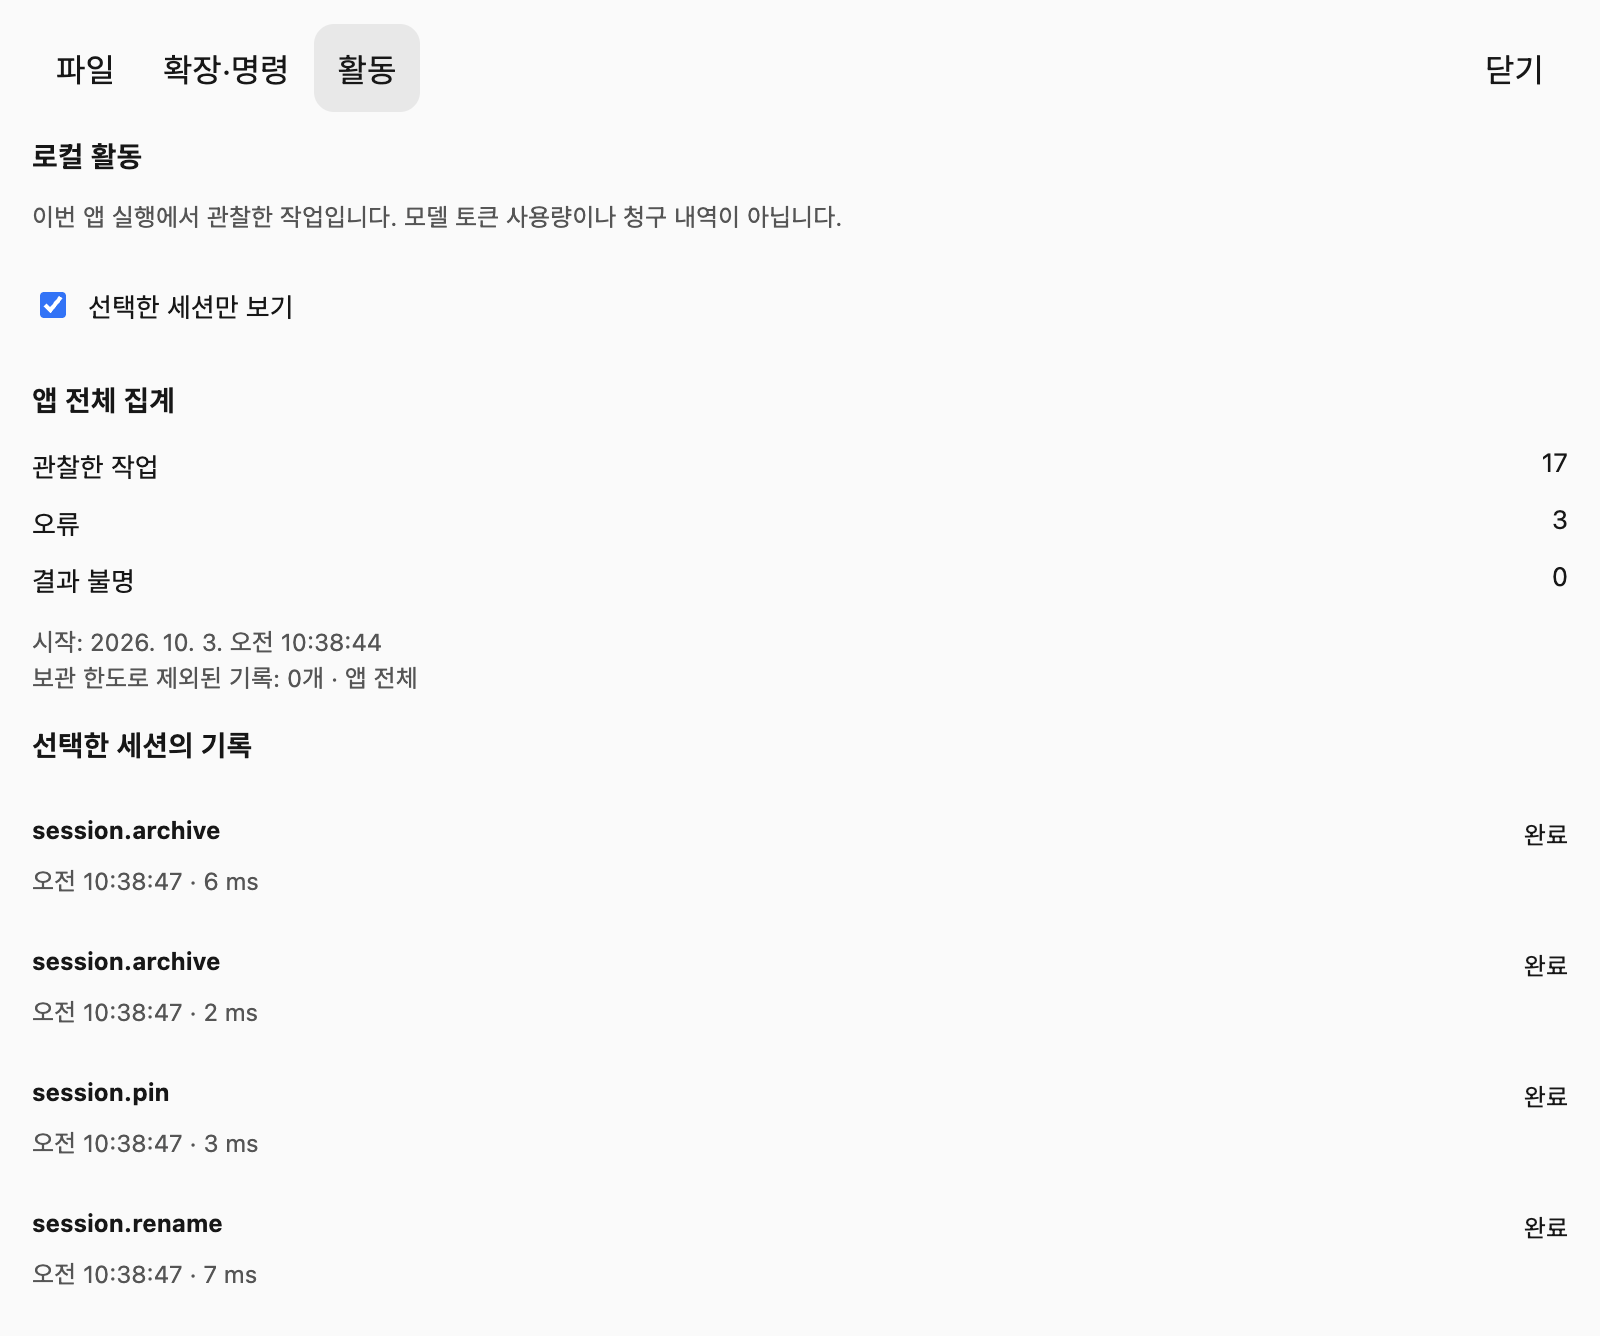
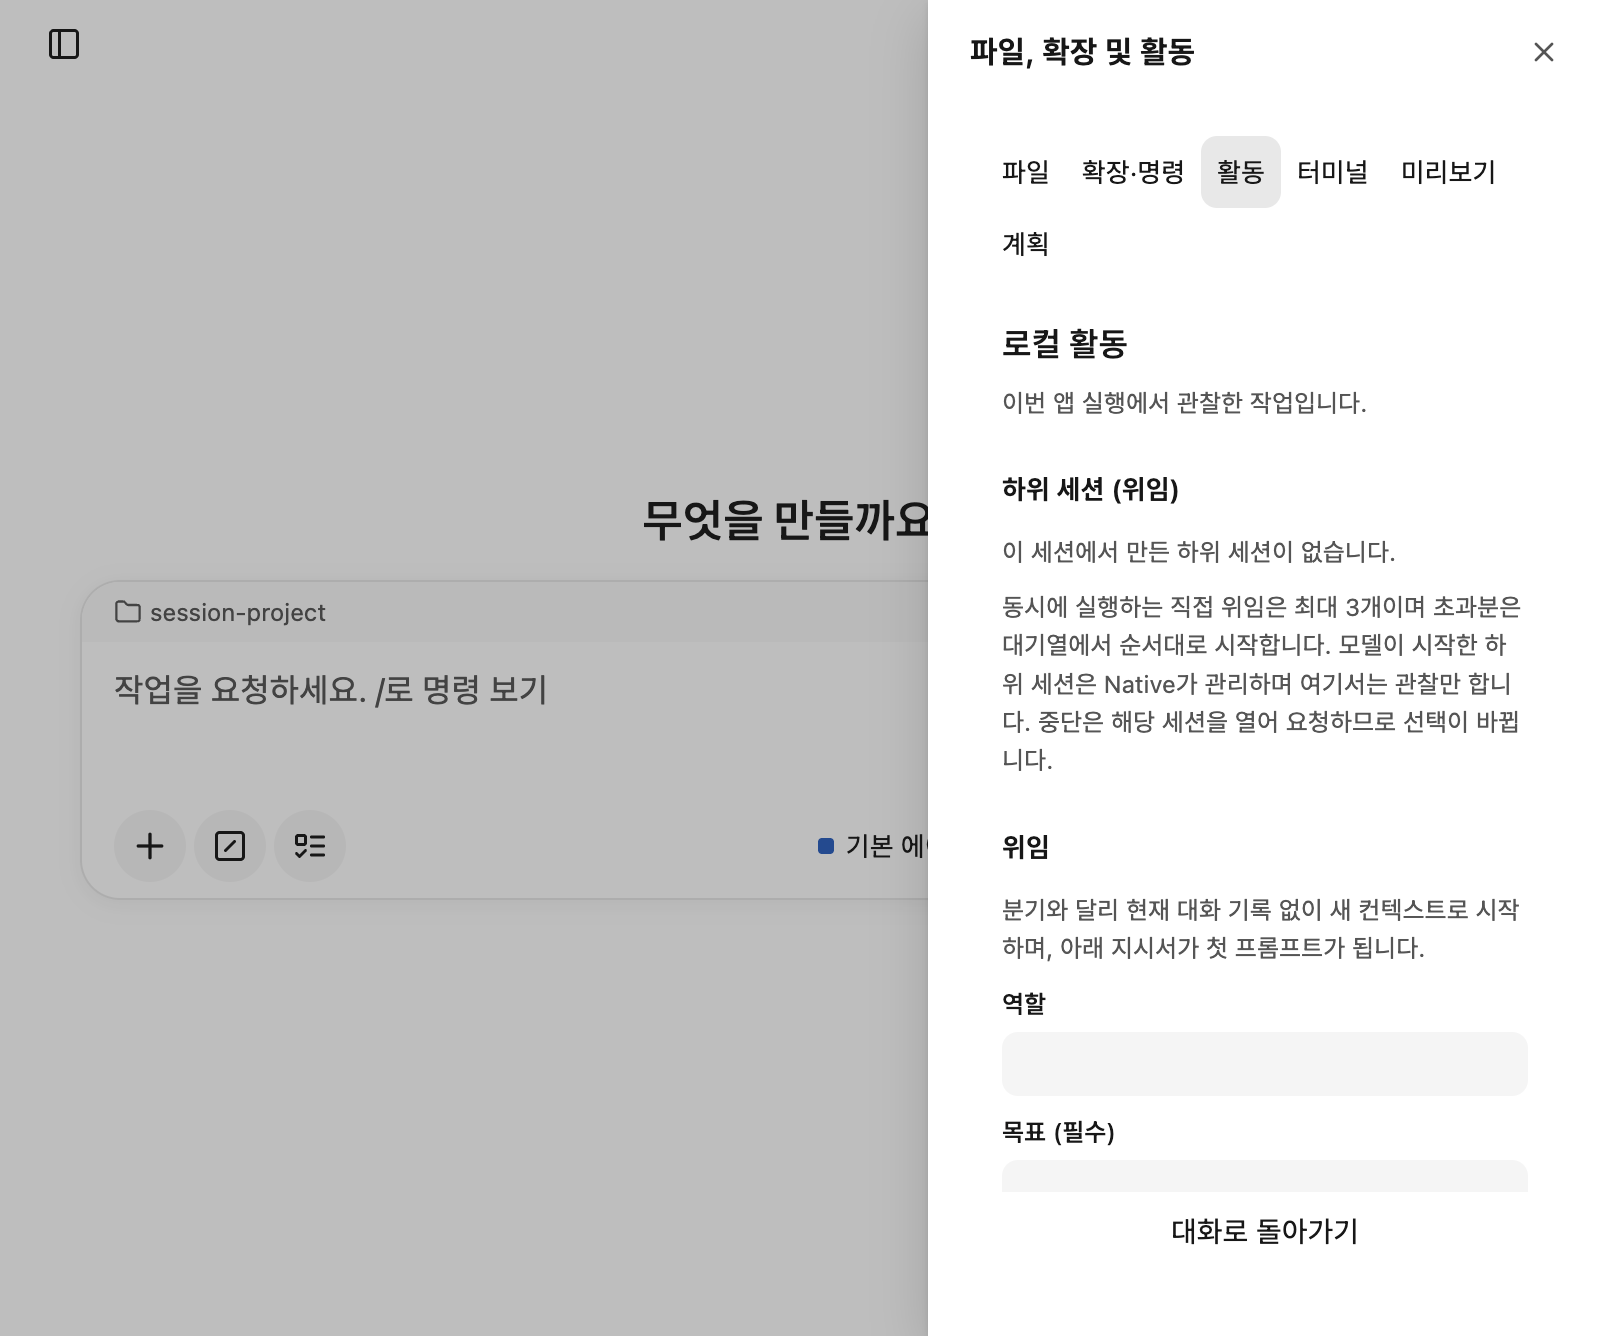
test(e2e): update locators for switch role, Notice and 32px selects; flush ModalSheet body for panels

diff --git a/packages/ui/src/primitives/modal-sheet.tsx b/packages/ui/src/primitives/modal-sheet.tsx
@@ -10,6 +10,8 @@ export type ModalSheetProps = {
   title: string;
   children: ReactNode;
   side?: "left" | "right";
+  // Content that owns its own padding and scrolling (panels, navigation).
+  flush?: boolean;
   returnFocusRef?: RefObject<HTMLElement | null>;
 };
 
@@ -19,6 +21,7 @@ export function ModalSheet({
   title,
   children,
   side = "right",
+  flush = false,
   returnFocusRef,
 }: ModalSheetProps) {
   const openingFocusRef = useRef<HTMLElement | null>(null);
@@ -68,7 +71,9 @@ export function ModalSheet({
               </button>
             </Dialog.Close>
           </header>
-          <div className={styles.body}>{children}</div>
+          <div className={styles.body} data-flush={flush || undefined}>
+            {children}
+          </div>
         </Dialog.Content>
       </Dialog.Portal>
     </Dialog.Root>

diff --git a/apps/desktop-app/src/renderer/pages/workbench/index.tsx b/apps/desktop-app/src/renderer/pages/workbench/index.tsx
@@ -797,6 +797,7 @@ export function Workbench() {
           onOpenChange={setNavigation}
           title="작업 공간과 세션"
           side="left"
+          flush
           returnFocusRef={navigationButton}
         >
           {navigationContent}
@@ -1093,6 +1094,7 @@ export function Workbench() {
             if (!open) closePanel();
           }}
           title="파일, 확장 및 활동"
+          flush
           returnFocusRef={panelButton}
         >
           {panelContent}

diff --git a/packages/ui/src/primitives/modal-sheet.module.css b/packages/ui/src/primitives/modal-sheet.module.css
@@ -106,3 +106,16 @@
     height: 44px;
   }
 }
+
+.body[data-flush] {
+  padding: 0;
+}
+
+@media (max-width: 480px) {
+  .header {
+    padding-inline: 12px 8px;
+  }
+  .body:not([data-flush]) {
+    padding-inline: 12px;
+  }
+}
